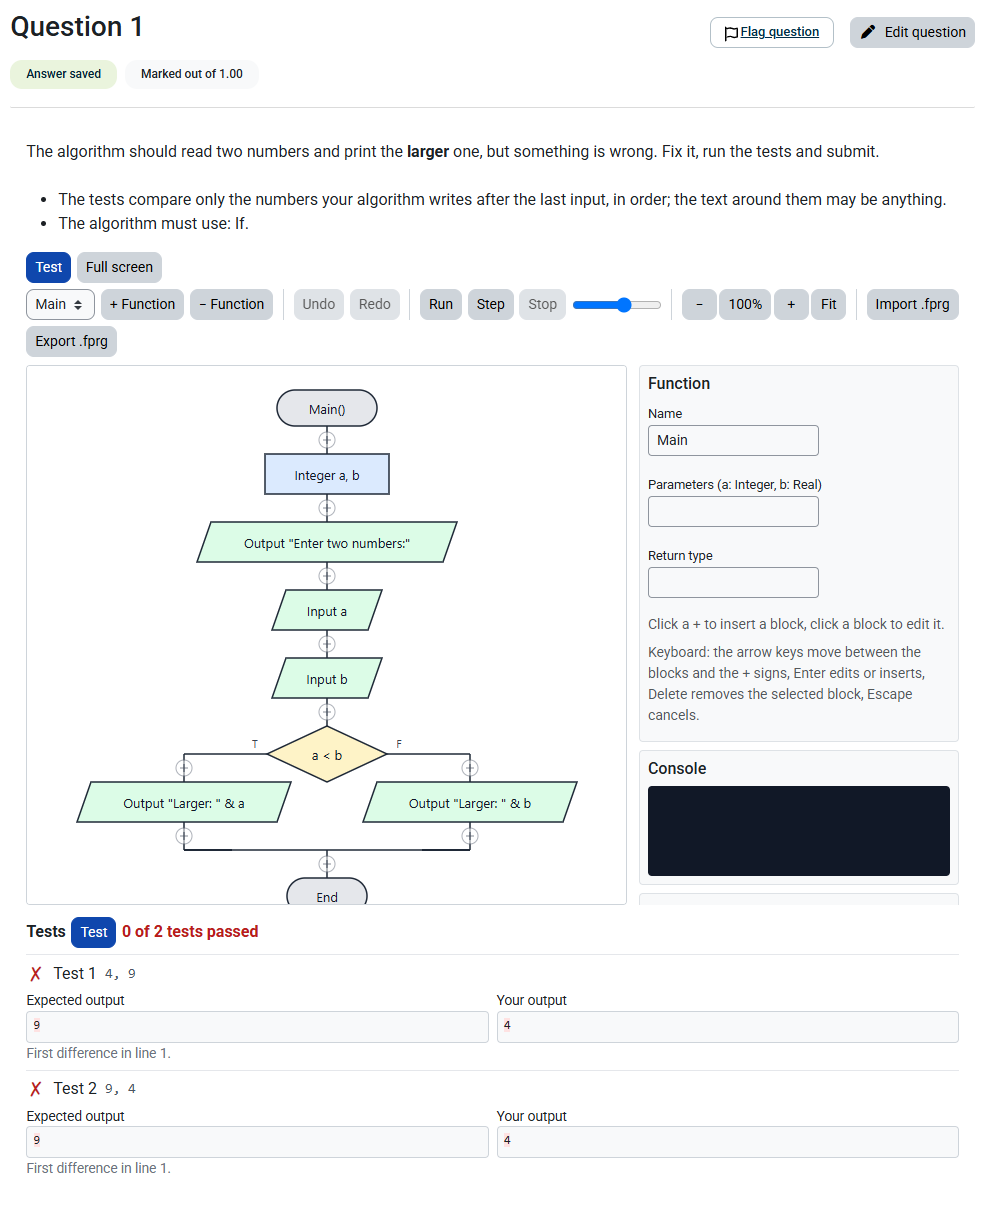
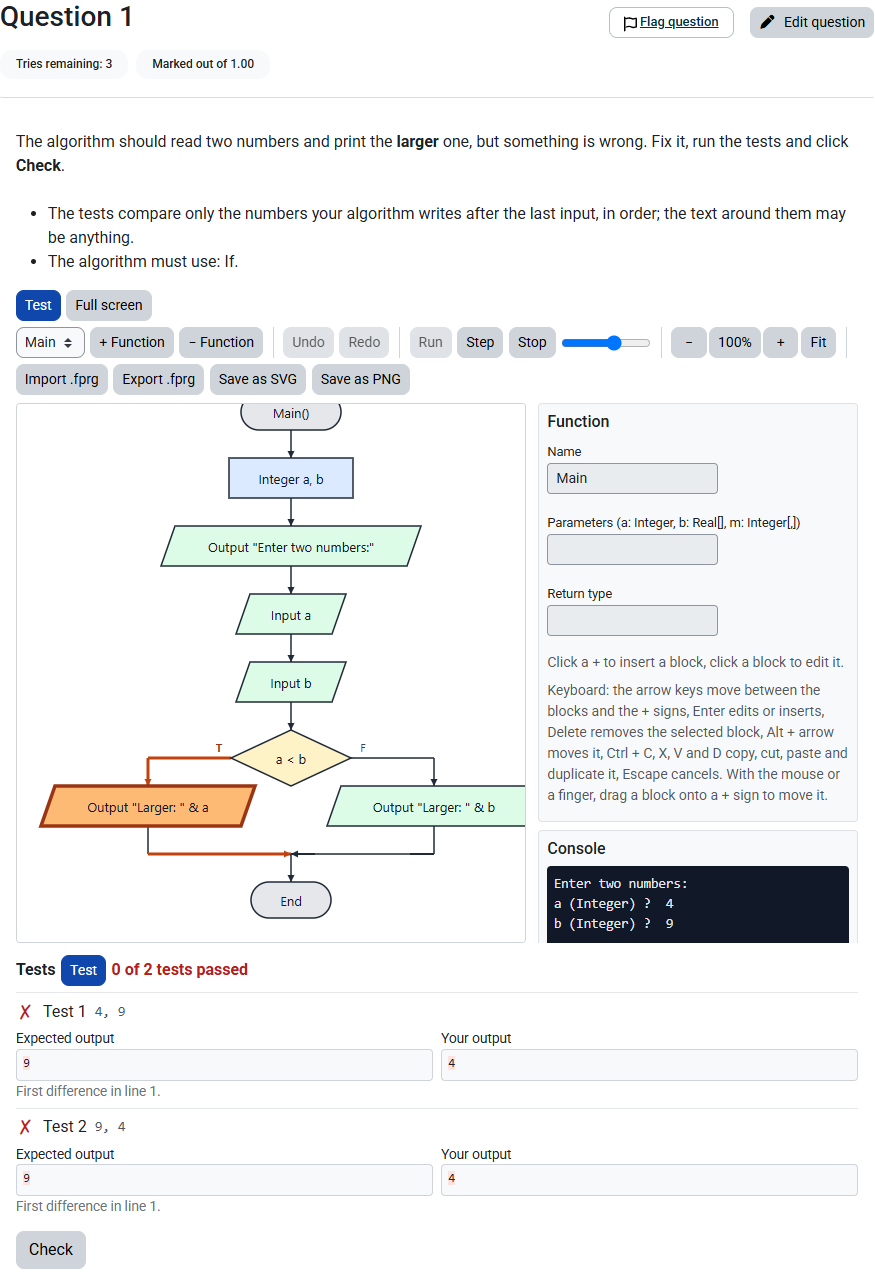
Run and Step are not an answer and do not make the test results old; new screenshots

diff --git a/amd/build/attempt.min.js b/amd/build/attempt.min.js
@@ -6,6 +6,6 @@ define("qtype_algorithm/attempt",["exports","tiny_algorithm/editor","tiny_algori
    * @copyright  2026 Boban Blagojević
    * @license    http://www.gnu.org/copyleft/gpl.html GNU GPL v3 or later
    */
-const decode=text=>{try{return text?(0,_model.deserialize)(text):null}catch(e){return null}},countBlocks=program=>{const count=list=>list.reduce(((sum,block)=>sum+1+["then","else","body"].reduce(((inner,key)=>inner+(Array.isArray(block[key])?count(block[key]):0)),0)),0);return program.functions.reduce(((sum,fn)=>sum+count(fn.body)),0)};_exports.init=async function(containerId,inputId,readonly,lang,emptyText){let{template:template="",tests:tests=[],check:check={}}=arguments.length>5&&void 0!==arguments[5]?arguments[5]:{};await(0,_langstrings.load)();const container=document.getElementById(containerId),input=document.getElementById(inputId);if(!container||!input)return;const program=decode(input.value);if(readonly)return void(program?new _runner.AlgorithmRunner(container,program,{lang:lang}):container.textContent=emptyText);let editor=null;const ws=(0,_fullscreen.workspace)(container,lang,(()=>editor.zoom.autoFit()));let panel=null,started=!1;if(editor=new _editor.AlgorithmEditor(container,{program:program||decode(template),lang:lang,onChange:current=>{if(!started)return;const value=countBlocks(current)>0?(0,_model.serialize)(current):"";input.value!==value&&(input.value=value,input.dispatchEvent(new Event("change",{bubbles:!0}))),panel&&panel.markStale()}}),started=!0,tests.length){const host=document.createElement("div");host.className="qtype_algorithm_tests",container.after(host),panel=new _tests.TestsPanel(host,{tests:tests,mode:"student",lang:lang,check:check,getProgram:()=>editor.getProgram()}),ws.bar.prepend(ws.button("runtests",(()=>{panel.run(),host.scrollIntoView({block:"nearest",behavior:"smooth"})}),"btn-primary"))}};_exports.showSolution=async(containerId,solution,lang)=>{await(0,_langstrings.load)();const container=document.getElementById(containerId),program=decode(solution);container&&program&&new _runner.AlgorithmRunner(container,program,{lang:lang})}}));
+const decode=text=>{try{return text?(0,_model.deserialize)(text):null}catch(e){return null}},countBlocks=program=>{const count=list=>list.reduce(((sum,block)=>sum+1+["then","else","body"].reduce(((inner,key)=>inner+(Array.isArray(block[key])?count(block[key]):0)),0)),0);return program.functions.reduce(((sum,fn)=>sum+count(fn.body)),0)};_exports.init=async function(containerId,inputId,readonly,lang,emptyText){let{template:template="",tests:tests=[],check:check={}}=arguments.length>5&&void 0!==arguments[5]?arguments[5]:{};await(0,_langstrings.load)();const container=document.getElementById(containerId),input=document.getElementById(inputId);if(!container||!input)return;const program=decode(input.value);if(readonly)return void(program?new _runner.AlgorithmRunner(container,program,{lang:lang}):container.textContent=emptyText);let editor=null;const ws=(0,_fullscreen.workspace)(container,lang,(()=>editor.zoom.autoFit()));let panel=null,last=null;if(editor=new _editor.AlgorithmEditor(container,{program:program||decode(template),lang:lang,onChange:current=>{const now=(0,_model.serialize)(current);if(null===last||now===last)return;last=now;const value=countBlocks(current)>0?now:"";input.value!==value&&(input.value=value,input.dispatchEvent(new Event("change",{bubbles:!0}))),panel&&panel.markStale()}}),last=(0,_model.serialize)(editor.getProgram()),tests.length){const host=document.createElement("div");host.className="qtype_algorithm_tests",container.after(host),panel=new _tests.TestsPanel(host,{tests:tests,mode:"student",lang:lang,check:check,getProgram:()=>editor.getProgram()}),ws.bar.prepend(ws.button("runtests",(()=>{panel.run(),host.scrollIntoView({block:"nearest",behavior:"smooth"})}),"btn-primary"))}};_exports.showSolution=async(containerId,solution,lang)=>{await(0,_langstrings.load)();const container=document.getElementById(containerId),program=decode(solution);container&&program&&new _runner.AlgorithmRunner(container,program,{lang:lang})}}));
 
 //# sourceMappingURL=attempt.min.js.map

diff --git a/amd/src/attempt.js b/amd/src/attempt.js
@@ -91,16 +91,20 @@ export const init = async(containerId, inputId, readonly, lang, emptyText, {temp
     let panel = null;
     // The editor reports its first drawing too: that is not a change by the student (opening a question with a
     // template must not answer it, and a saved answer must not be marked as changed).
-    let started = false;
+    // The editor also draws again during Run and Step, so a drawing is a change only when the algorithm differs from the
+    // last one (stepping through the template must not answer the question or make the test results old).
+    let last = null;
     editor = new AlgorithmEditor(container, {
         program: program || decode(template),
         lang,
         onChange: (current) => {
-            if (!started) {
+            const now = serialize(current);
+            if (last === null || now === last) {
                 return;
             }
+            last = now;
             // An empty diagram counts as no answer, so the question is reported as not complete.
-            const value = countBlocks(current) > 0 ? serialize(current) : '';
+            const value = countBlocks(current) > 0 ? now : '';
             if (input.value !== value) {
                 input.value = value;
                 input.dispatchEvent(new Event('change', {bubbles: true}));
@@ -110,7 +114,7 @@ export const init = async(containerId, inputId, readonly, lang, emptyText, {temp
             }
         },
     });
-    started = true;
+    last = serialize(editor.getProgram());
     if (tests.length) {
         const host = document.createElement('div');
         host.className = 'qtype_algorithm_tests';

diff --git a/CHANGELOG.md b/CHANGELOG.md
@@ -1,5 +1,12 @@
 # Changelog
 
+## Unreleased
+
+- **Run and Step are not an answer:** the editor draws again during Run and Step, and the attempt took that for a
+  change. Stepping through the template saved it as the answer and the test results were marked as old after every
+  step. Now only a real change of the algorithm answers the question or makes the results old (`attempt.js`).
+- **Screenshots:** new pictures of the attempt, the interactive behaviour and the edit form.
+
 ## 2.2.0 – 2026-11-05 (stable)
 
 - **Matrices as parameters:** the PHP interpreter (automatic grading) accepts matrix parameters like the editor of

diff --git a/README.md b/README.md
@@ -46,7 +46,7 @@ solution. Without tests the teacher grades it manually.
 
 | | |
 |---|---|
-| **Attempt: the student fixes the algorithm and runs the tests** | **Edit form: the teacher's solution and the starting template** |
+| **Attempt: the student steps through the algorithm and runs the tests** | **Edit form: the teacher's solution and the starting template** |
 | ![Attempt](docs/screenshots/quiz-attempt.png) | ![Edit form](docs/screenshots/edit-solution-tests.png) |
 | **Interactive behaviour: test results, weights and a hint** | |
 | ![Interactive](docs/screenshots/quiz-interactive.png) | |
